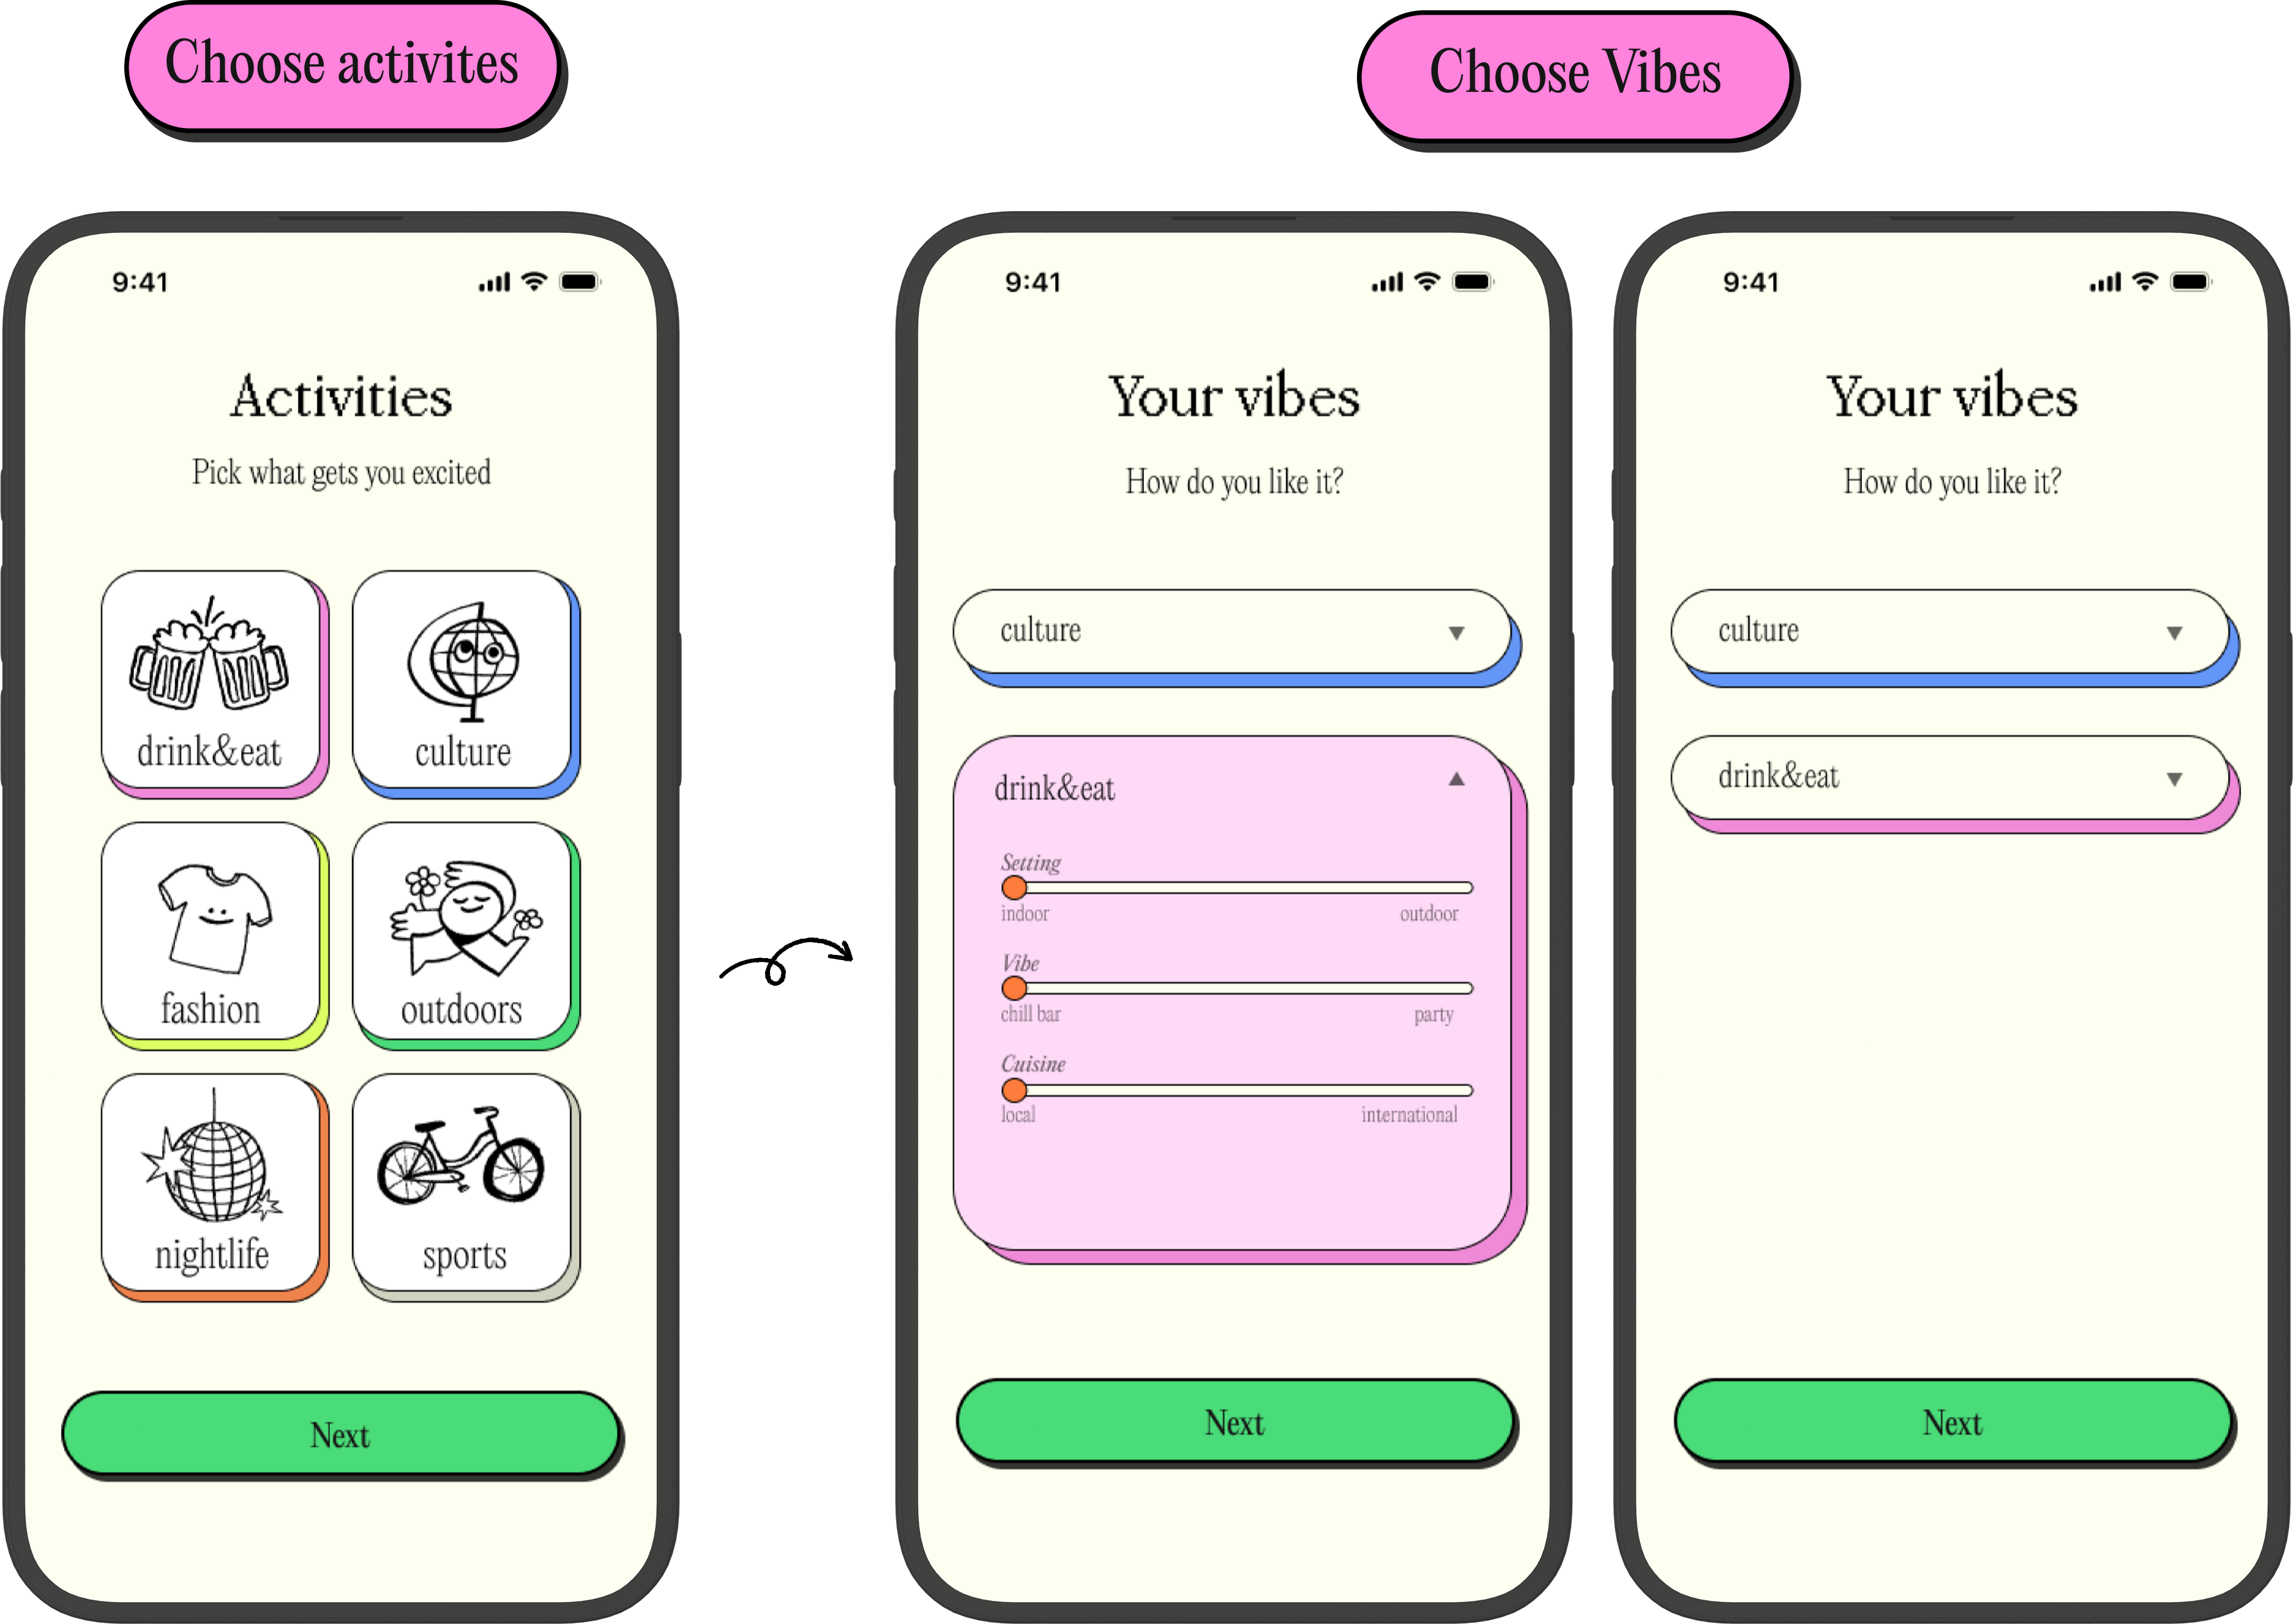
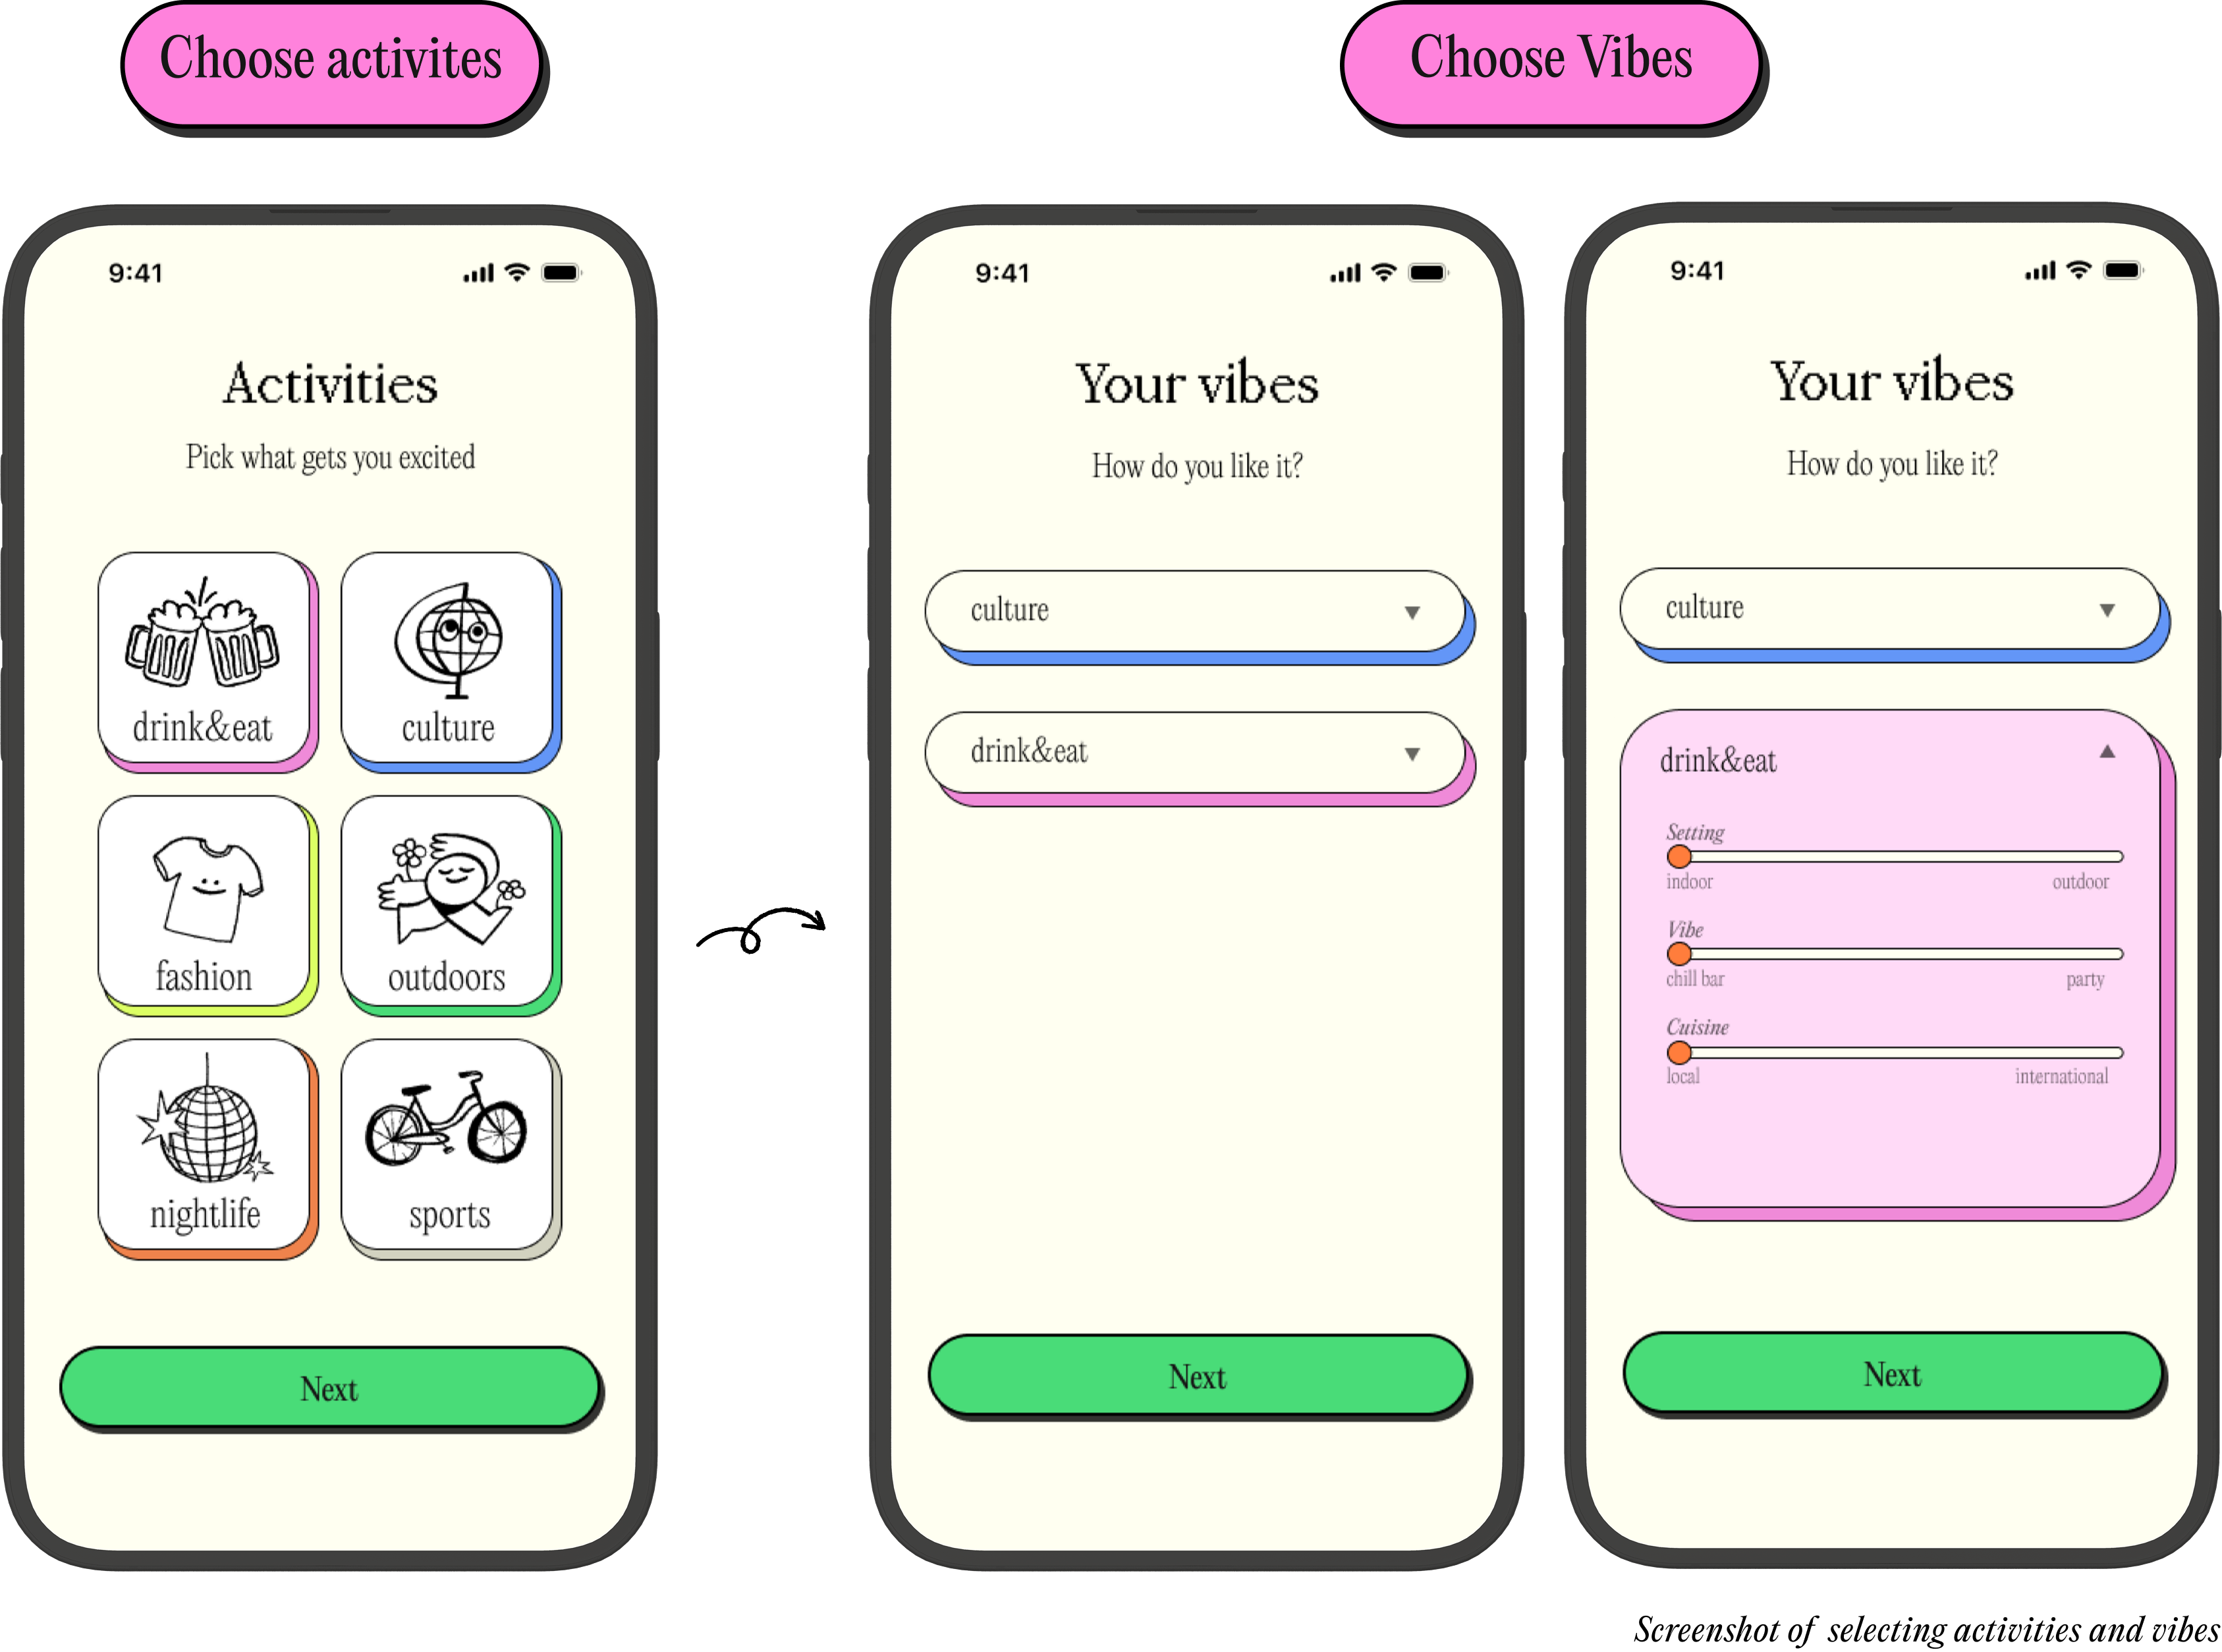
last review and feedback

diff --git a/index.html b/index.html
@@ -45,6 +45,7 @@
         <li><a href="#briefing">Briefing / Problem</a></li>
         <li><a href="#the-goal">Current / desired situation</a></li>
         <li><a href="#stakeholders">Stakeholder and target audience</a></li>
+        <li><a href="#proces-card">Proces card</a></li>
         <li><a href="#field-research">Field research</a></li>
         <li><a href="#insight-cards">Insight cards</a></li>
         <li><a href="#research-2">Research 2.0</a></li>
@@ -73,6 +74,7 @@
         <li><a href="#feedback">Feedback &amp; improvements</a></li>
         <li><a href="#social-campaign">Social media campaign</a></li>
         <li><a href="#tangibles">Tangibles</a></li>
+        <li><a href="#conclusion">Conclusion</a></li>
         <li><a href="#next-steps">Next steps</a></li>
       </ul>
     </li>
@@ -141,7 +143,7 @@
 
     <!-- ==================== HEYY THERE intro ==================== -->
     <div class="intro-block reveal">
-      <p class="eyebrow">Heyy there!</p>
+      <p class="eyebrow">Hey there!</p>
       <p class="prose">We are third-year Communication and Multimedia Design students at Rotterdam University of Applied Sciences. This project was created in collaboration with Digital Design and Development (Devine) students from Howest University of Applied Sciences and our client, Visit Antwerp. The project began with three multidisciplinary teams, each developing a unique concept. Following this phase, the CMD students were <em>merged into a new team</em> to start reconcepting and further develop and refine the final concept presented here.</p>
     </div>
   </section>
@@ -168,7 +170,10 @@
       <div class="goal-side">
         <h4>Current situation</h4>
         <div class="goal-pair">
-          <img class="phone phone--current" src="img/chat/current_chat.png" alt="A chaotic group chat that never decides on a trip">
+          <figure class="phone-fig">
+            <img class="phone phone--current" src="img/chat/current_chat.png" alt="A chaotic group chat that never decides on a trip">
+            <figcaption class="phone-cap">Whatsapp screen of groupchats | Generated with AI, Gemini</figcaption>
+          </figure>
           <ul class="goal-list">
             <li>One person does everything</li>
             <li>Left on read</li>
@@ -190,7 +195,10 @@
       <div class="goal-side">
         <h4>Desired situation</h4>
         <div class="goal-pair">
-          <img class="phone phone--desired" src="img/chat/desired_chat.png" alt="The same group chat, now planning the trip through the app">
+          <figure class="phone-fig">
+            <img class="phone phone--desired" src="img/chat/desired_chat.png" alt="The same group chat, now planning the trip through the app">
+            <figcaption class="phone-cap">Whatsapp screen of groupchats | Generated with AI, Gemini</figcaption>
+          </figure>
           <ul class="goal-list">
             <li>One link, no effort</li>
             <li>Fast, no download</li>
@@ -249,7 +257,7 @@
       <div class="theme">
         <img class="card" src="img/themes/button_outdoors.png" alt="Outdoors">
         <div class="to"><svg viewBox="0 0 40 56" fill="none"><path d="M20 5 L20 45" stroke="#141410" stroke-width="2.6" stroke-linecap="round"/><path d="M12 36 L20 46 L28 36" stroke="#141410" stroke-width="2.6" stroke-linecap="round" stroke-linejoin="round"/></svg></div>
-        <div class="label">city by <span class="ul">the river</span></div>
+        <div class="label"><span class="ul">24/7 pulse</span></div>
       </div>
       <div class="theme">
         <img class="card" src="img/themes/button_nightlife.png" alt="Nightlife">
@@ -265,12 +273,19 @@
     <p class="prose reveal">Ready to Antwerp is built around the experience themes provided by Visit Antwerp. These themes are translated into interest <em>categories</em> that users can select during the planning process, allowing the platform to generate personalised recommendations tailored to the group's preferences. By incorporating all experience themes into the concept, Ready to Antwerp offers something for everyone, making Antwerp an appealing destination for a wide variety of travellers and interests.</p>
   </section>
 
+  <!-- ==================== PROCES CARD ==================== -->
+  <section class="sec" id="proces-card" data-section data-group="connect">
+    <h3 class="h-mid proces-title"><img class="proces-car" src="img/illustrations/car.png" alt=""> Proces card</h3>
+    <img class="proces-img reveal" src="img/proces_card/proces_card.png" alt="Process card">
+  </section>
+
   <!-- ==================== RESEARCH ==================== -->
   <section class="sec glow" id="research" data-section data-group="connect" style="--glow:rgba(85,150,255,.20);">
     <h2 class="h-xl">Research</h2>
     <div class="research-intro reveal">
       <div>
-        <p class="prose" style="margin-left:0;">We interviewed 15 different young adults to learn how they discover destinations, organize group activities, and coördinate plans with friends. Our goal was to uncover <em>frustrations, motivations, and behaviors around planning social trips</em>. These findings helped us identify opportunities to make group trip planning more spontaneous, collaborative, and enjoyable.</p>
+        <p class="prose" style="margin-left:0;">Starting off the project with the face-to-face week in Rotterdam, we were divided into three groups. Every group consisted of CMD students and Devine students and each one of them conducted their own research to explore different approaches to the design challenge.</p>
+        <p class="prose" style="margin-left:0;">We interviewed different young adults to learn how they discover destinations, organize group activities, and coördinate plans with friends. Our goal was to uncover frustrations, motivations, and behaviors around planning social trips. These findings helped us identify opportunities to make group trip planning more spontaneous, collaborative, and enjoyable.</p>
       </div>
       <img class="illo" src="img/illustrations/high_five.png" alt="">
     </div>
@@ -314,12 +329,12 @@
           <p class="prose" style="margin:0;">Following our field research and desk research, each of the three teams created its own set of insight cards based on the collected findings. After the teams were merged, we compared the different insights, combined overlapping observations and refined them where necessary. This resulted in a shared set of insight cards that started the second research phase.</p>
         </div>
         <div class="insight-grid">
-          <div class="insight">"There's always one organiser, and they're tired of it."</div>
-          <div class="insight">"Enthusiasm is high, commitment is low."</div>
-          <div class="insight">"Finding a date is the hardest single step."</div>
-          <div class="insight">"They don't trust official tourism, they trust the group chat."</div>
-          <div class="insight">"They remember the moments together, not the sights."</div>
-          <div class="insight">"A bit of competition or a reward gets them moving."</div>
+          <div class="insight"><span class="insight-q">"There's always one organiser, and they're tired of it."</span><span class="insight-src">from interview</span></div>
+          <div class="insight"><span class="insight-q">"Enthusiasm is high, commitment is low."</span><span class="insight-src">from research of Initiative Taker</span></div>
+          <div class="insight"><span class="insight-q">"Finding a date is the hardest single step."</span><span class="insight-src">from interview</span></div>
+          <div class="insight"><span class="insight-q">"They don't trust official tourism, they trust the group chat."</span><span class="insight-src">from interview</span></div>
+          <div class="insight"><span class="insight-q">"They remember the moments together, not the sights."</span><span class="insight-src">from interview, deskresearch of TA</span></div>
+          <div class="insight"><span class="insight-q">"A bit of competition or a reward gets them moving."</span><span class="insight-src">from deskresearch of Reward system</span></div>
         </div>
       </div>
     </div>
@@ -493,6 +508,7 @@
                   <li><span class="lead">What We Take:</span> The "Live Lobby" mechanic and the fast-paced timer that pressures quick, gut-feeling decisions — so planning feels less like a survey and more like a game.</li>
                   <li><span class="lead">What We Leave:</span> The "right vs. wrong" educational focus. Our app is about discovering the group's vibe and preferences, so there are no "wrong" answers, just different outcomes.</li>
                 </ul>
+                <p class="gcard-src">Kahoot beginning screen | Kahoot. (n.d.). <a href="https://encrypted-tbn0.gstatic.com/images?q=tbn:ANd9GcTVRaLgSAe6748ZAAV5VRdFLLtEOM8_71g4Z0sBltALRzCXUjIAnY9Eut0M&amp;s=10">https://encrypted-tbn0.gstatic.com/images?q=tbn:ANd9GcTVRaLgSAe6748ZAAV5VRdFLLtEOM8_71g4Z0sBltALRzCXUjIAnY9Eut0M&amp;s=10</a></p>
               </div>
             </div>
           </div>
@@ -509,6 +525,7 @@
                   <li><span class="lead">What We Take:</span> The "Output" phase. When the group finishes the minigame, the app shouldn't just give a boring list of Antwerp locations — it should generate a visual, aesthetic "Squad Vibe Card" that the initiative-taker can screenshot and drop into the group chat.</li>
                   <li><span class="lead">What We Leave:</span> The yearly delay. Spotify Wrapped happens once a year, while our card is based on the information we gain through the webapp, instantly.</li>
                 </ul>
+                <p class="gcard-src">Spotify wrapped | Spotify wrapped. (n.d.). <a href="https://s3-alpha.figma.com/hub/file/2296115768371514066/237a47c3-6ff7-4a54-ba37-456693d015e1-cover.png">https://s3-alpha.figma.com/hub/file/2296115768371514066/237a47c3-6ff7-4a54-ba37-456693d015e1-cover.png</a></p>
               </div>
             </div>
           </div>
@@ -525,6 +542,7 @@
                   <li><span class="lead">What We Take:</span> The sensory feedback loop during the minigame. The illustrations and animation are visually pleasing.</li>
                   <li><span class="lead">What We Leave:</span> The daily streak and guilt-tripping notifications. A travel planning app is high-intent but low-frequency (they plan a trip once every few months). We don't need them to log in every day — we just need them hyper-engaged for 3 minutes.</li>
                 </ul>
+                <p class="gcard-src">Duolingo Learning Path | Duolingo-chests-learning-path. (n.d.). <a href="https://duoplanet.com/wp-content/uploads/2023/02/Duolingo-chests-learning-path-1060x2048.png">https://duoplanet.com/wp-content/uploads/2023/02/Duolingo-chests-learning-path-1060x2048.png</a></p>
               </div>
             </div>
           </div>

diff --git a/assets/style.css b/assets/style.css
@@ -504,7 +504,7 @@ body[data-page="concept"] .prose{ text-align:left; }
 
 /* ---- Create tweaks: full-width visual items, bigger mockup, 2-col feedback ---- */
 .vs-item:nth-child(3), .vs-item:nth-child(4){ grid-column:1 / -1; }
-.create-feature{ max-width:min(520px,90%); }
+.create-feature{ max-width:min(800px,90%); }
 .fb-cols{ display:grid; grid-template-columns:var(--split, 1fr 1fr); gap:26px; align-items:center; margin-top:14px; }
 .fb-side{ display:flex; flex-direction:column; gap:14px; justify-content:center; }
 .fb-side .prose{ max-width:none; margin:0; text-align:left; }
@@ -535,3 +535,23 @@ body[data-page="concept"] .prose{ text-align:left; }
 
 /* a bit more vertical space between the visual-style rows */
 .vs-grid{ row-gap:100px; }
+
+/* gamification cards: image source line at the bottom */
+.gcard-src{ margin:14px 0 0; font-size:12.5px; line-height:1.4; color:#8a8a7a; }
+.gcard-src a{ text-decoration:underline; word-break:break-all; color:inherit; }
+
+/* ---- proces card section + phone captions ---- */
+.proces-title{ display:flex; align-items:center; gap:14px; }
+.proces-car{ width:clamp(60px,7vw,84px); flex:0 0 auto; }
+.proces-img{ width:100%; display:block; margin:18px auto 0; }
+.phone-fig{ margin:0; display:flex; flex-direction:column; align-items:center; }
+.phone-cap{ margin-top:8px; font-size:11.5px; line-height:1.3; color:#8a8a7a; text-align:center; max-width:198px; }
+
+/* proces card title centered like the other section titles + bigger car; captions lower */
+.proces-title{ justify-content:center; }
+.proces-car{ width:clamp(72px,10vw,120px); }
+.phone-cap{ margin-top:18px; }
+
+/* insight cards: small right-aligned source under each quote */
+.insight{ flex-direction:column; gap:6px; }
+.insight-src{ align-self:flex-end; text-align:right; font-size:15px; font-style:italic; line-height:1.25; }

diff --git a/create.html b/create.html
@@ -26,6 +26,7 @@
         <li><a href="#briefing">Briefing / Problem</a></li>
         <li><a href="#the-goal">Current / desired situation</a></li>
         <li><a href="#stakeholders">Stakeholder and target audience</a></li>
+        <li><a href="#proces-card">Proces card</a></li>
         <li><a href="#field-research">Field research</a></li>
         <li><a href="#insight-cards">Insight cards</a></li>
         <li><a href="#research-2">Research 2.0</a></li>
@@ -54,6 +55,7 @@
         <li><a href="#feedback">Feedback &amp; improvements</a></li>
         <li><a href="#social-campaign">Social media campaign</a></li>
         <li><a href="#tangibles">Tangibles</a></li>
+        <li><a href="#conclusion">Conclusion</a></li>
         <li><a href="#next-steps">Next steps</a></li>
       </ul>
     </li>
@@ -176,6 +178,21 @@
   <section class="sec" id="tangibles" data-section data-group="create">
     <h3 class="h-mid">Tangibles</h3>
     <img class="c-fullimg reveal" src="img/Create/tangibles/tangibles_img.png" alt="Tangible deliverables: posters and stickers">
+  </section>
+
+  <!-- ==================== CONCLUSION ==================== -->
+  <section class="sec" id="conclusion" data-section data-group="create">
+    <h3 class="h-mid">Conclusion</h3>
+    <p class="prose c-desc">Ready to Antwerp transforms one of the biggest challenges of group travel: planning. By using gamification, shared decision-making and local rewards, we make it easier and more enjoyable for friends to plan a trip together. Instead of letting travel ideas get lost in a group chat, users can easily find common interests, match their schedules and make decisions as a group.</p>
+    <div class="fb-cols reveal" style="--split:0.6fr 1.3fr;">
+      <div class="fb-side">
+        <img src="img/Create/conclusion/insta_illustration.png" alt="Sharing the Antwerp experience on social media">
+      </div>
+      <div class="fb-side">
+        <p class="prose">As a result, travellers can enjoy a more memorable trip to Antwerp by creating shared experiences and memories with their friends.</p>
+        <p class="prose">Through these shared experiences, Ready to Antwerp encourages more young people to visit Antwerp and naturally spread the word through their own stories and memories.</p>
+      </div>
+    </div>
   </section>
 
   <!-- ==================== NEXT STEPS ==================== -->

diff --git a/bibliography.html b/bibliography.html
@@ -26,6 +26,7 @@
         <li><a href="#briefing">Briefing / Problem</a></li>
         <li><a href="#the-goal">Current / desired situation</a></li>
         <li><a href="#stakeholders">Stakeholder and target audience</a></li>
+        <li><a href="#proces-card">Proces card</a></li>
         <li><a href="#field-research">Field research</a></li>
         <li><a href="#insight-cards">Insight cards</a></li>
         <li><a href="#research-2">Research 2.0</a></li>
@@ -54,6 +55,7 @@
         <li><a href="#feedback">Feedback &amp; improvements</a></li>
         <li><a href="#social-campaign">Social media campaign</a></li>
         <li><a href="#tangibles">Tangibles</a></li>
+        <li><a href="#conclusion">Conclusion</a></li>
         <li><a href="#next-steps">Next steps</a></li>
       </ul>
     </li>

diff --git a/concept.html b/concept.html
@@ -26,6 +26,7 @@
         <li><a href="#briefing">Briefing / Problem</a></li>
         <li><a href="#the-goal">Current / desired situation</a></li>
         <li><a href="#stakeholders">Stakeholder and target audience</a></li>
+        <li><a href="#proces-card">Proces card</a></li>
         <li><a href="#field-research">Field research</a></li>
         <li><a href="#insight-cards">Insight cards</a></li>
         <li><a href="#research-2">Research 2.0</a></li>
@@ -54,6 +55,7 @@
         <li><a href="#feedback">Feedback &amp; improvements</a></li>
         <li><a href="#social-campaign">Social media campaign</a></li>
         <li><a href="#tangibles">Tangibles</a></li>
+        <li><a href="#conclusion">Conclusion</a></li>
         <li><a href="#next-steps">Next steps</a></li>
       </ul>
     </li>

diff --git a/img/Bibliography/bibliography_list.md b/img/Bibliography/bibliography_list.md
@@ -79,3 +79,9 @@ Engaging the digital tourist: Experimental evidence on the power of gamified tra
 
 Brooke, J. (1996). SUS: A "quick and dirty" usability scale. In P. W. Jordan, B. Thomas, B. A. Weerdmeester, & I. L. McClelland (Eds.), *Usability evaluation in industry* (pp. 189–194). Taylor & Francis.
 
+**AI use disclaimer**  
+During the project for the city of Antwerp, we used AI tools like ChatGPT, Gemini, Cloud and Canva to support our research proces, generating images and code the one pager.
+
+AI was only used as a tool to support writing, generate images and coding, not to come up with new ideas or replace our own thinking.
+
+We always checked and adjusted the texts and imagery ourself to make sure it still reflects our own ideas and writing style. 